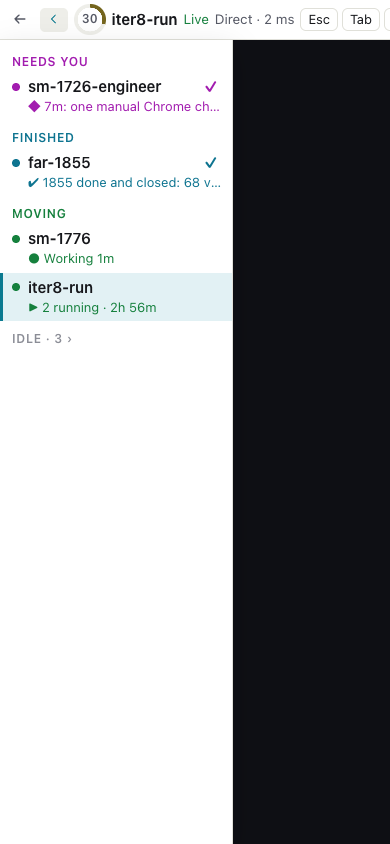
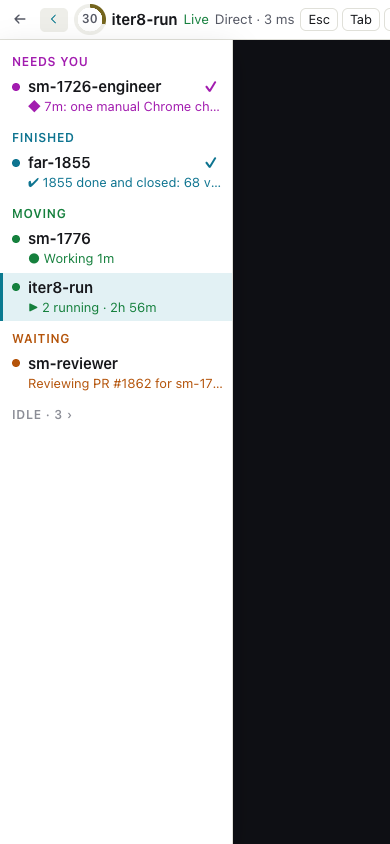
Web terminal: bind the remembered route to the server instance; show review rounds in the switcher
Claude-Session: https://claude.ai/code/session_012oBtVJu78mGqFxHNXrrjsm

Changed region(s): [[0.0308, 0.3697, 0.5538, 0.4621], [0.0308, 0.4621, 0.0615, 0.4929]]

diff --git a/crates/sm-server/src/web/terminal.js b/crates/sm-server/src/web/terminal.js
@@ -1,7 +1,7 @@
 // Terminal page (spec 1710; 1782 G1-G4): switcher, phone keys, route and round-trip time.
 import { useEffect, useRef, useState } from 'preact/hooks';
 import { html, api, usePoll, panels, openPanel, closePanel, navigate, Icon, Ring, config, stored, store } from './ui.js';
-import { openInClaude, sectionAgents, SECTION_LABEL, SECTION_TONE, youFact, jobsFact, agentFact, markAnswered } from './agents.js';
+import { openInClaude, sectionAgents, SECTION_LABEL, SECTION_TONE, youFact, jobsFact, agentFact, pairedText, markAnswered } from './agents.js';
 import { chooseRoute, relayRoute, rememberRoute, routeText } from './terminal-route.js';
 import './vendor/xterm.js';
 import './vendor/addon-fit.js';
@@ -16,12 +16,12 @@ const session = () => { try { return window.sessionStorage; } catch (e) { return
 
 // ---- switcher (1782 G1) ---------------------------------------------------------
 
-/** The row's second line: the you or finished text (with its ✓), else jobs when there are any, else the agent fact. */
+/** The row's second line: the you or finished text (with its ✓), else jobs or a review round, else the agent fact. */
 export function switcherFact(agent, now = Date.now()) {
   const you = youFact(agent, now);
   if (you) return you;
   const jobs = agent.facts && agent.facts.jobs;
-  return jobs && jobs.tone ? jobsFact(agent) : agentFact(agent, now);
+  return (jobs && jobs.tone) || pairedText(agent.paired_reviewer) ? jobsFact(agent) : agentFact(agent, now);
 }
 
 /**
@@ -182,11 +182,11 @@ export function TerminalPage({ id, open }) {
       timer = setTimeout(() => connect(), Math.min(10000, 500 * 2 ** Math.min(retries++, 5)));
     };
     // A direct socket that ends before attaching uses a fresh ticket through the relay (G4).
-    const fallback = (ws) => {
+    const fallback = (ws, instance) => {
       clearTimeout(handshakeTimer);
       if (socket === ws) socket = null;
       ws.close();
-      rememberRoute(session(), 'relay', Date.now());
+      rememberRoute(session(), 'relay', instance, Date.now());
       connect(true);
     };
     const connect = async (relayOnly = false) => {
@@ -207,7 +207,7 @@ export function TerminalPage({ id, open }) {
         // attempt without another automatic signing request after 30 seconds.
         handshakeTimer = setTimeout(() => {
           if (stopped || socket !== ws || live) return;
-          if (chosen.direct) { fallback(ws); return; }
+          if (chosen.direct) { fallback(ws, ticket.server_instance); return; }
           ended = true; socket = null;
           setConnection('Ended');
           setError('Terminal connection timed out. Check any sign-in or Keychain prompt. If device certificates were just enabled, quit and reopen your browser; otherwise choose Reconnect.');
@@ -239,7 +239,7 @@ export function TerminalPage({ id, open }) {
               if (!stopped && ws.readyState === WebSocket.OPEN) ws.send(JSON.stringify({ type: 'output_ack', sequence: frame.sequence }));
             });
           } else if (frame.type === 'exit' || frame.type === 'error') {
-            if (chosen.direct && !attached) { fallback(ws); return; }
+            if (chosen.direct && !attached) { fallback(ws, ticket.server_instance); return; }
             clearTimeout(handshakeTimer);
             ended = true; live = false; stopPing(); setConnection('Ended');
             setError(frame.message || frame.reason || '');
@@ -248,7 +248,7 @@ export function TerminalPage({ id, open }) {
         };
         ws.onclose = (event) => {
           if (stopped || socket !== ws) return;
-          if (chosen.direct && !attached) { fallback(ws); return; }
+          if (chosen.direct && !attached) { fallback(ws, ticket.server_instance); return; }
           clearTimeout(handshakeTimer);
           live = false; stopPing();
           if (ended || event.code === 1000 || event.code === 1008) setConnection('Ended');

diff --git a/crates/sm-server/src/web/terminal-route.js b/crates/sm-server/src/web/terminal-route.js
@@ -14,19 +14,21 @@ export function relayRoute(ticket, location) {
   return { url: url.href, direct: false, label: loopback(location.hostname) ? 'Direct' : 'Cloudflare' };
 }
 
-function remembered(storage, now) {
+/** The remembered route, if it is under ten minutes old and names this server instance. */
+function remembered(storage, instance, now) {
   try {
     const value = JSON.parse(storage.getItem(ROUTE_KEY));
-    return value && typeof value.url === 'string' && now - value.at < ROUTE_MS ? value.url : null;
+    const fresh = value && typeof value.url === 'string' && now - value.at < ROUTE_MS && value.instance === instance;
+    return fresh ? value.url : null;
   } catch (e) {
     return null;
   }
 }
 
-/** Remember a route ('relay' or a direct url) for ten minutes. */
-export function rememberRoute(storage, url, now) {
+/** Remember a route ('relay' or a direct url) to this server instance for ten minutes. */
+export function rememberRoute(storage, url, instance, now) {
   try {
-    storage.setItem(ROUTE_KEY, JSON.stringify({ url, at: now }));
+    storage.setItem(ROUTE_KEY, JSON.stringify({ url, instance, at: now }));
   } catch (e) {
     /* private window: probe again next time */
   }
@@ -53,19 +55,19 @@ async function probe(fetchImpl, url, instance, ms) {
  * take the first, in list order, whose instance matches the ticket's; a probe
  * that answers with another instance is someone else's server and is skipped.
  * With no match, use the relay. A route remembered within ten minutes skips
- * the probes.
+ * the probes, unless the server instance has changed since.
  */
 export async function chooseRoute(ticket, { location, fetchImpl, storage, now = Date.now(), ms = PROBE_MS }) {
   const relay = relayRoute(ticket, location);
   const direct = Array.isArray(ticket.direct) ? ticket.direct : [];
   if (!ticket.server_instance || !direct.length) return relay;
-  const known = remembered(storage, now);
+  const known = remembered(storage, ticket.server_instance, now);
   if (known === 'relay') return relay;
   if (known && direct.some((entry) => entry.url === known)) return { url: known, direct: true, label: 'Direct' };
   const answers = await Promise.all(direct.map((entry) => probe(fetchImpl, entry.probe, ticket.server_instance, ms)));
   const index = answers.indexOf(true);
   const chosen = index < 0 ? relay : { url: direct[index].url, direct: true, label: 'Direct' };
-  rememberRoute(storage, chosen.direct ? chosen.url : 'relay', now);
+  rememberRoute(storage, chosen.direct ? chosen.url : 'relay', ticket.server_instance, now);
   return chosen;
 }
 
